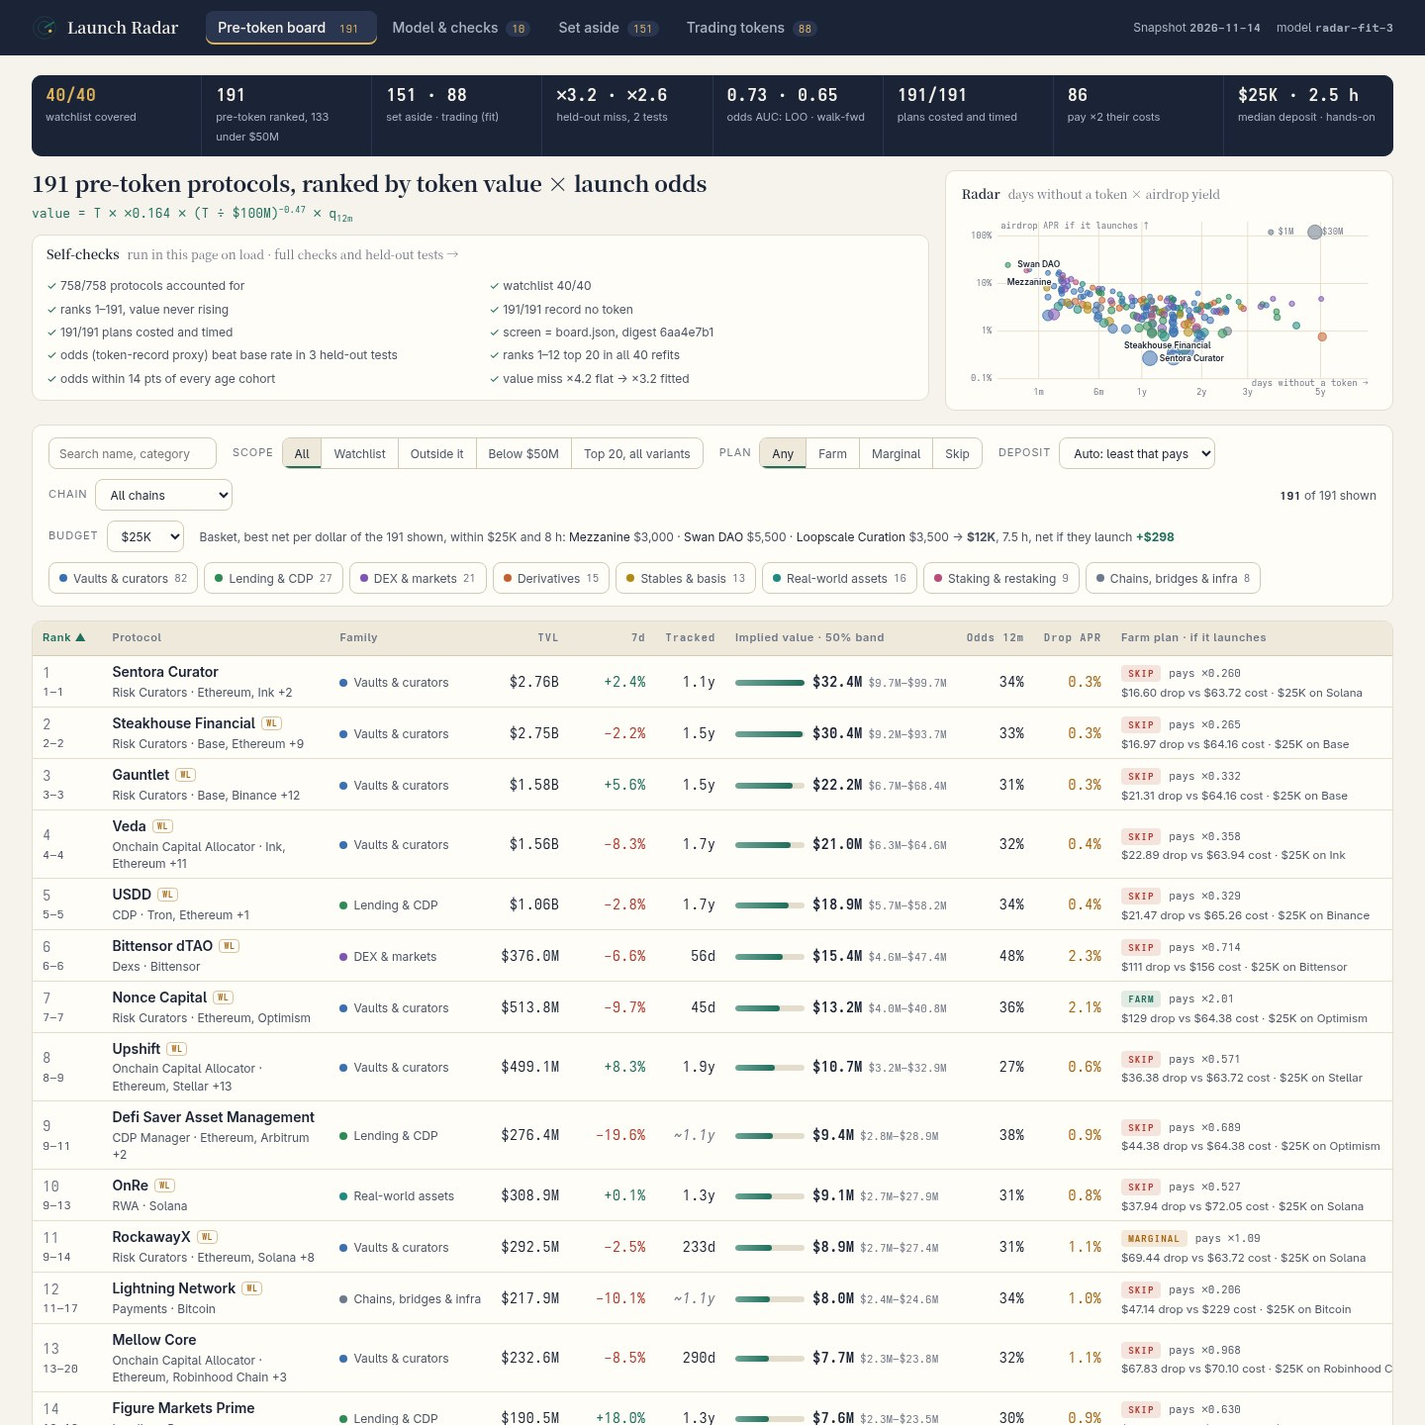
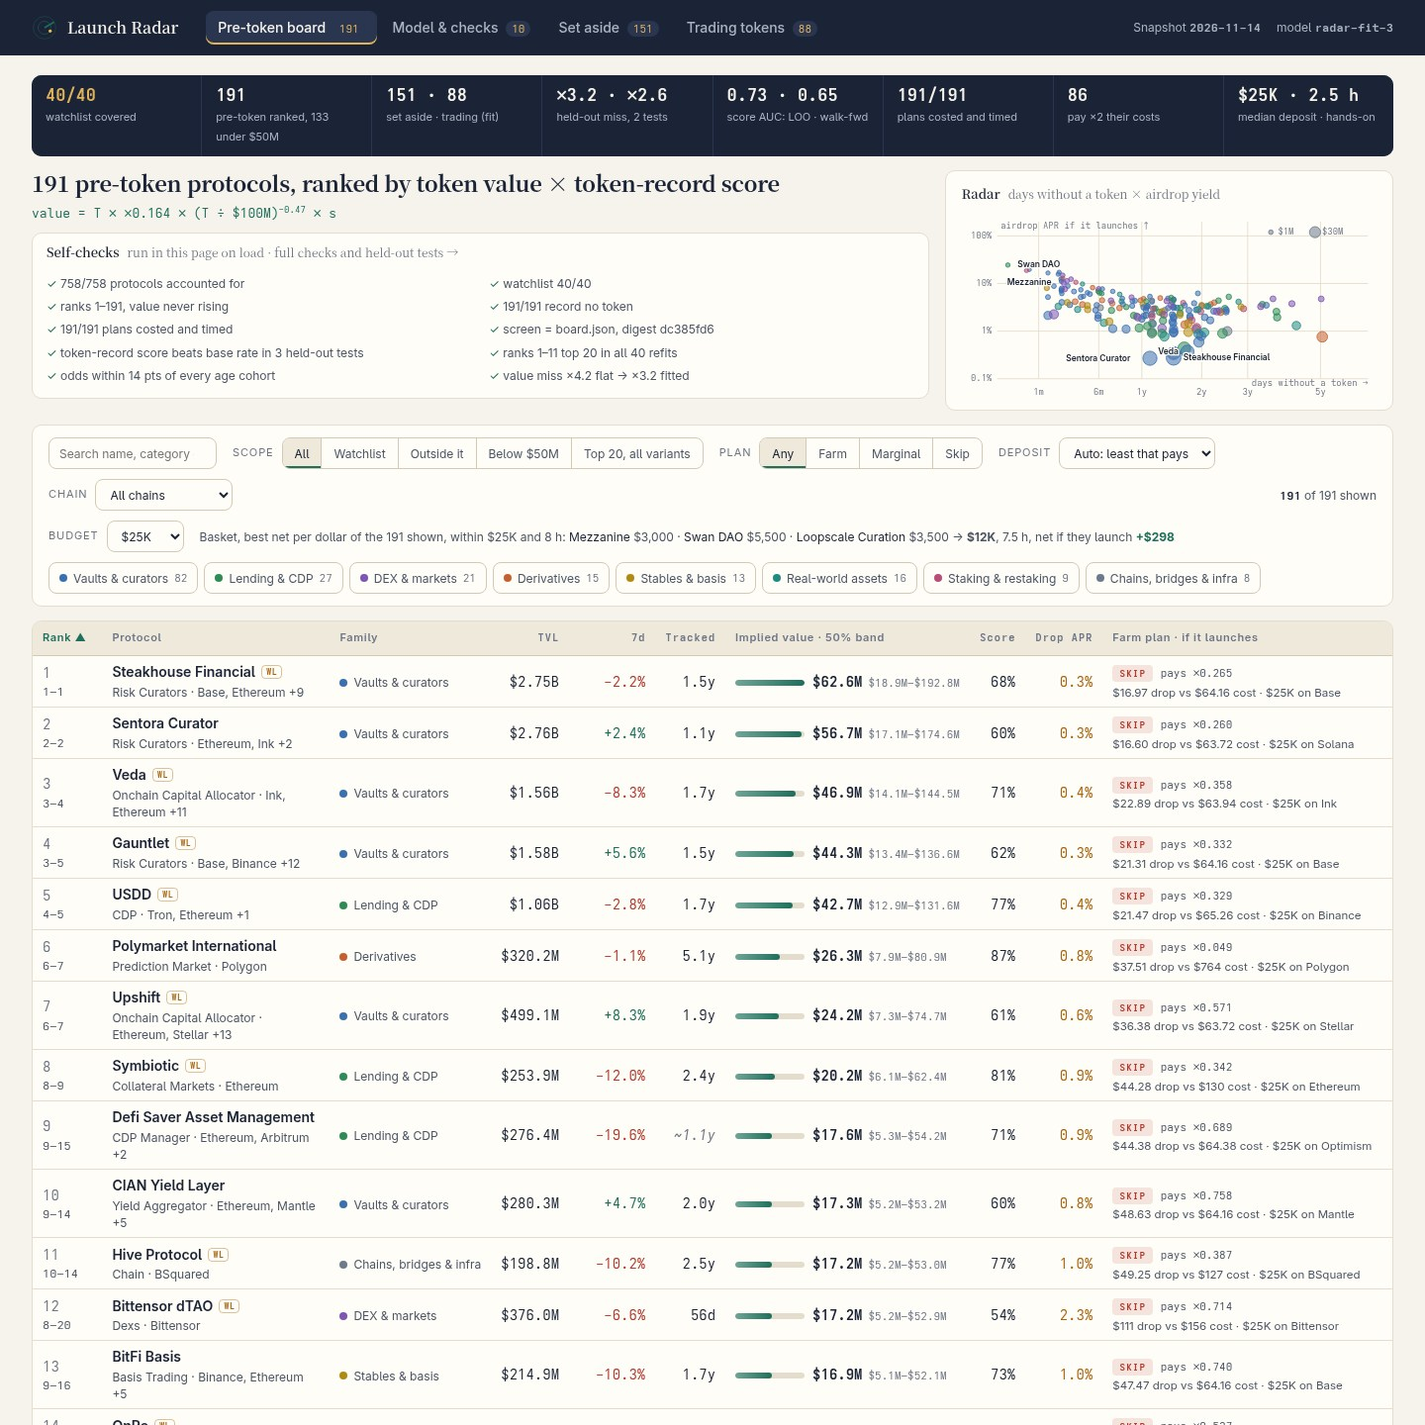
Token-record score replaces the 12-month hazard: implied value = value if launched x share of similar peers that record a token, the quantity the held-out tests score; no timing claim

diff --git a/dashboard/app.js b/dashboard/app.js
@@ -1,7 +1,7 @@
 /* Launch Radar. Guide to this source (dossier order: app.js, index.html, model.js, style.css):
  *   model.js calibrate(), termTests()  value curve fitted on the trading tokens; each term tested held-out twice
- *   model.js launchOdds()  12-month launch odds: a hazard fitted on peers by TVL and age, AUC and cohort checks
- *   model.js value()       value if launched x launch odds, every factor kept for the detail view
+ *   model.js launchOdds()  token-record score: share of similar peers that record a token; AUC, Brier, cohorts
+ *   model.js value()       value if launched x token-record score, every factor kept for the detail view
  *   model.js productOf()   the watchlist rule that sets wrapped, bridged, staked and exchange products aside
  *   model.js farmPlan()    decision step, seven costed and timed steps, deposit sized or set by the reader
  *   model.js build(), boardRows(), digest()  what main.ts writes to board.json; the page recomputes it
@@ -10,8 +10,8 @@
  * main.ts writes it to data.js and the cover's check compares it on load (board screenshot, "screen =").
  * (2) value terms: termTests() scores each term leave-one-out, walk-forward and family-out; the Model tab
  * shows the table. (3) plans: farmPlan() gives every step a dollar cost and a time; a kill test runs
- * before any spend (detail screenshot, step 2). Limit: launch odds are validated on today's token status
- * only; the snapshot holds no launch dates, so no 12-month backtest is possible (stated on the Model tab). */
+ * before any spend (detail screenshot, step 2). Limit: the score is tested on today's token records, the
+ * quantity it ranks by; the snapshot holds no launch dates, so it makes no timing claim (Model tab). */
 (function () {
   'use strict';
   const R = window.RadarModel, S = window.SNAPSHOT, app = document.getElementById('app');
@@ -116,15 +116,15 @@
   const O = fit.odds, pc = (x) => (x * 100).toFixed(0) + '%';
   function formula() {
     const T = fit.tests, x = (v) => '×' + v.toFixed(2);
-    const used = { flat: 'baseline', spot: 'replaced', size: 'fitted', family: fit.k === Infinity ? 'dropped' : 'k=' + fit.k, growth: 'not used', age: 'via odds' };
+    const used = { flat: 'baseline', spot: 'replaced', size: 'fitted', family: fit.k === Infinity ? 'dropped' : 'k=' + fit.k, growth: 'not used', age: 'via score' };
     return `<div class="card model">
       <h2>Value model <span>fitted on this snapshot's ${fit.n} trading tokens</span></h2>
-      <p class="eq">value = T × ${mult(fit.base)} × (T ÷ $100M)<sup>${fit.slope.toFixed(2)}</sup> × q<sub>12m</sub></p>
+      <p class="eq">value = T × ${mult(fit.base)} × (T ÷ $100M)<sup>${fit.slope.toFixed(2)}</sup> × s</p>
       <table class="mini tests"><thead><tr><th>Term · held-out median miss</th><th class="num">Leave-one-out</th><th class="num">Walk-fwd</th><th class="num">Family out</th><th class="num">Use</th></tr></thead><tbody>
       ${T.terms.map((t) => `<tr class="${t.ok ? 'pick' : ''}"><td>${t.label}</td><td class="num">${x(t.loo)}</td><td class="num">${x(t.wf)}</td><td class="num">${x(t.lofo)}</td><td class="num">${used[t.key]}</td></tr>`).join('')}</tbody></table>
-      <p class="note">Walk-forward: fit the ${T.wf_train} listed first, score the ${T.wf_n} since ${T.wf_from}. Family out: each family priced by a fit that never saw it. T = TVL carried a week at its 7-day change (${M.growth_floor}…+${M.growth_cap}%). q<sub>12m</sub> = odds of a token within a year, a hazard fitted on ${O.n} peers (${O.with_token} with a token) by TVL, days listed, 7-day change and family: AUC ${O.auc_loo.toFixed(2)} leave-one-out, ${O.auc_wf.toFixed(2)} walk-forward, ${O.auc_fam.toFixed(2)} family-out (each family scored by a fit that never saw it).</p>
-      <p class="note"><b>Token-record proxy:</b> the fitted target is whether a peer <i>records</i> a token in DefiLlama today (gecko id or symbol), not an observed launch date; q<sub>12m</sub> converts that age curve into a 12-month hazard.</p>
-      <p class="note"><b>Limit:</b> these tests score who holds a token today. The snapshot has no launch dates or earlier copies, so no one can backtest the 12-month odds against later launches from it; q<sub>12m</sub> reads the age curve as a hazard, an inference the cohort check bounds (worst gap ${Math.round(O.gap * 100)} pts).</p>
+      <p class="note">Walk-forward: fit the ${T.wf_train} listed first, score the ${T.wf_n} since ${T.wf_from}. Family out: each family priced by a fit that never saw it. T = TVL carried a week at its 7-day change (${M.growth_floor}…+${M.growth_cap}%). s = token-record score: the share of ${O.n} peers (logistic fit ; ${O.with_token} record a token) with this TVL, days tracked, 7-day change and family that record a token: AUC ${O.auc_loo.toFixed(2)} leave-one-out, ${O.auc_wf.toFixed(2)} walk-forward, ${O.auc_fam.toFixed(2)} family-out (each family scored by a fit that never saw it).</p>
+      <p class="note"><b>Token-record score, not a launch forecast:</b> the target is whether a peer <i>records</i> a token in DefiLlama today. The radar ranks by value if launched × s, the quantity the held-out tests actually score; it makes no claim about when a token launches.</p>
+      <p class="note"><b>Limit:</b> the snapshot has no launch dates or earlier copies, so no one can test timing from it; s is checked against today's records (worst age-cohort gap ${Math.round(O.gap * 100)} pts).</p>
       <p class="note">Leave-one-out miss by TVL band: ${fit.bands.map((b) => `<b>${b.lo ? usd(b.lo) : '$0'}–${b.hi < 1e15 ? usd(b.hi) : '∞'} ×${b.miss.toFixed(1)}</b> (${b.n} tokens; ${rows.filter((r) => r.p.tvl_usd >= b.lo && r.p.tvl_usd < b.hi).length} ranked)`).join(' · ')}.</p></div>`;
   }
 
@@ -139,7 +139,7 @@
     [rows.every((r) => r.p.gecko_id == null && r.p.symbol == null && r.p.mcap_usd == null), `${rows.length}/${rows.length} ranked rows record no token`],
     [bRows.every((b) => b.farm_steps.length >= 3 && b.farm_steps.length <= 12 && b.farm_steps.every((t) => / Cost: .+ Time: /.test(t))), `${bRows.length}/${bRows.length} plans, every step costed and timed`],
     [B.digest === dig && B.rows === rows.length, `Screen = board.json at the Auto deposit (rank, name, value, every plan step): digest ${dig}, ${B.rows || 0} rows`],
-    [O.auc_loo > 0.5 && O.auc_wf > 0.5 && O.auc_fam > 0.5 && O.brier.loo < O.brier.loo_base && O.brier.wf < O.brier.wf_base && O.brier.fam < O.brier.fam_base, `Launch odds (token-record proxy) beat chance and the base rate in 3 held-out tests: AUC ${O.auc_loo.toFixed(2)} leave-one-out, ${O.auc_wf.toFixed(2)} walk-forward, ${O.auc_fam.toFixed(2)} family-out; Brier ${O.brier.loo.toFixed(3)}/${O.brier.wf.toFixed(3)}/${O.brier.fam.toFixed(3)} vs base ${O.brier.loo_base.toFixed(3)}/${O.brier.wf_base.toFixed(3)}/${O.brier.fam_base.toFixed(3)}`],
+    [O.auc_loo > 0.5 && O.auc_wf > 0.5 && O.auc_fam > 0.5 && O.brier.loo < O.brier.loo_base && O.brier.wf < O.brier.wf_base && O.brier.fam < O.brier.fam_base, `Token-record score beats chance and the base rate in 3 held-out tests: AUC ${O.auc_loo.toFixed(2)} leave-one-out, ${O.auc_wf.toFixed(2)} walk-forward, ${O.auc_fam.toFixed(2)} family-out; Brier ${O.brier.loo.toFixed(3)}/${O.brier.wf.toFixed(3)}/${O.brier.fam.toFixed(3)} vs base ${O.brier.loo_base.toFixed(3)}/${O.brier.wf_base.toFixed(3)}/${O.brier.fam_base.toFixed(3)}`],
     [rows.slice(0, 10).every((r) => r.boot >= 0.8), `Bootstrap, 40 refits of curve and odds (fails if any top-10 row leaves the top 20 in over 20% of refits): ranks 1–${rows.findIndex((r) => r.boot < 1)} stay top 20 every time; ${rows.filter((r) => r.boot > 0 && r.boot < 1).length} rows sometimes`],
     ((w) => [O.gap < 0.2, `Odds curve vs ${O.cohorts.length} listing-age cohorts: within ${Math.round(O.gap * 100)} pts (worst from day ${w.from}: ${pc(w.actual)} hold a token, ${pc(w.fitted)} fitted)`])(O.cohorts.reduce((a, c) => Math.abs(c.actual - c.fitted) > Math.abs(a.actual - a.fitted) ? c : a)),
     [spotT.ok && sizeT.ok, `Size curve beats a flat multiple, and carrying TVL a week at its 7-day change beats spot TVL, in all three held-out tests: ×${flatT.loo.toFixed(2)}→×${spotT.loo.toFixed(2)}→×${sizeT.loo.toFixed(2)} leave-one-out`]
@@ -147,7 +147,7 @@
   // The cover shows each check as a short line; the Model tab shows them in full.
   const SHORT = [`${nAll}/${S.protocols.length} protocols accounted for`, `watchlist ${S.watchlist.filter((s) => bySlug[s]).length}/${S.watchlist.length}`, `ranks 1–${rows.length}, value never rising`,
     `${rows.length}/${rows.length} record no token`, `${bRows.length}/${bRows.length} plans costed and timed`, `screen = board.json, digest ${dig}`,
-    `odds (token-record proxy) beat base rate in 3 held-out tests`, `ranks 1–${rows.findIndex((r) => r.boot < 1)} top 20 in all 40 refits`,
+    `token-record score beats base rate in 3 held-out tests`, `ranks 1–${rows.findIndex((r) => r.boot < 1)} top 20 in all 40 refits`,
     `odds within ${Math.round(O.gap * 100)} pts of every age cohort`, `value miss ×${flatT.loo.toFixed(1)} flat → ×${sizeT.loo.toFixed(1)} fitted`];
 
   function board(st) {
@@ -202,22 +202,22 @@
       <div><b>${rows.length}</b><span>pre-token ranked, ${rows.filter((r) => r.below).length} under $50M</span></div>
       <div><b>${radar.products.length} · ${fit.n}</b><span>set aside · trading (fit)</span></div>
       <div><b>×${sizeT.loo.toFixed(1)} · ×${sizeT.wf.toFixed(1)}</b><span>held-out miss, 2 tests</span></div>
-      <div><b>${O.auc_loo.toFixed(2)} · ${O.auc_wf.toFixed(2)}</b><span>odds AUC: LOO · walk-fwd</span></div>
+      <div><b>${O.auc_loo.toFixed(2)} · ${O.auc_wf.toFixed(2)}</b><span>score AUC: LOO · walk-fwd</span></div>
       <div><b>${bRows.length}/${rows.length}</b><span>plans costed and timed</span></div>
       <div><b>${farmN}</b><span>pay ×${M.target_cover} their costs</span></div>
       <div><b>${usd(mid((r) => r.plan.stake))} · ${R.mins(mid((r) => r.plan.minutes))}</b><span>median deposit · hands-on</span></div>
     </section>
     <section class="hero slim">
       <div class="lead">
-        <h1>${rows.length} pre-token protocols, ranked by token value × launch odds</h1>
-        ${active ? `<p class="note">${CHECKS.filter((c) => c[0]).length}/${CHECKS.length} self-checks pass; the value model and its held-out tests are on the <a href="${link({ q: '', fam: '', chain: '', scope: 'all', verdict: '', dep: '' })}">unfiltered board</a>. With filters on, the board leads with the shortlist.</p>${ctl}` : `<p class="eq">value = T × ${mult(fit.base)} × (T ÷ $100M)<sup>${fit.slope.toFixed(2)}</sup> × q<sub>12m</sub></p>
+        <h1>${rows.length} pre-token protocols, ranked by token value × token-record score</h1>
+        ${active ? `<p class="note">${CHECKS.filter((c) => c[0]).length}/${CHECKS.length} self-checks pass; the value model and its held-out tests are on the <a href="${link({ q: '', fam: '', chain: '', scope: 'all', verdict: '', dep: '' })}">unfiltered board</a>. With filters on, the board leads with the shortlist.</p>${ctl}` : `<p class="eq">value = T × ${mult(fit.base)} × (T ÷ $100M)<sup>${fit.slope.toFixed(2)}</sup> × s</p>
         <div class="card checks"><h2>Self-checks <span>run in this page on load · <a href="${link({ view: 'model' })}">full checks and held-out tests →</a></span></h2><ul class="grid2">${CHECKS.map(([ok], i) => `<li class="${ok ? 'ok' : 'bad'}">${ok ? '✓' : '✗'} ${SHORT[i]}</li>`).join('')}</ul></div>`}
       </div>
       <div class="card chartcard"><h2>Radar <span>days without a token × airdrop yield</span></h2>${chart(shown, 214)}</div>
     </section>
     ${active ? '' : ctl}
     <div class="tablewrap"><table class="board">
-      <thead><tr>${th('rank', 'Rank')}${th('name', 'Protocol')}<th>Family</th>${th('tvl', 'TVL', 'num')}${th('g', '7d', 'num')}${th('age', 'Tracked', 'num')}${th('value', 'Implied value · 50% band', 'val')}${th('odds', 'Odds 12m', 'num')}${th('apr', 'Drop APR', 'num')}${th('plan', 'Farm plan · if it launches', 'plan')}</tr></thead>
+      <thead><tr>${th('rank', 'Rank')}${th('name', 'Protocol')}<th>Family</th>${th('tvl', 'TVL', 'num')}${th('g', '7d', 'num')}${th('age', 'Tracked', 'num')}${th('value', 'Implied value · 50% band', 'val')}${th('odds', 'Score', 'num')}${th('apr', 'Drop APR', 'num')}${th('plan', 'Farm plan · if it launches', 'plan')}</tr></thead>
       <tbody>${body || '<tr><td colspan="10" class="empty">No protocol matches these filters.</td></tr>'}</tbody></table></div>`;
   }
 
@@ -226,7 +226,7 @@
     const v = r.v, b = fit.bands.find((x) => r.p.tvl_usd >= x.lo && r.p.tvl_usd < x.hi), alt = Object.entries(r.alt).sort((a, c) => Math.abs(c[1] - r.rank) - Math.abs(a[1] - r.rank))[0];
     return [
       `<b>Value:</b> trading tokens of this size (${b.lo ? usd(b.lo) : '$0'}–${b.hi < 1e15 ? usd(b.hi) : '∞'} TVL) miss their real market cap by a median ×${b.miss.toFixed(1)} held out; a market cap at launch of ${usd(v.fitted * fit.band_low)} or ${usd(v.cap_high)} would not be unusual.`,
-      `<b>Odds:</b> ${pc(v.time_factor)} reads today's token status as a launch rate; no launch dates exist to test it, and the age curve misses one cohort by ${Math.round(fit.odds.gap * 100)} pts.`,
+      `<b>Score:</b> ${pc(v.time_factor)} of similar peers record a token today; that is no forecast of when, or whether, this one launches, and the fit misses one age cohort by ${Math.round(fit.odds.gap * 100)} pts.`,
       `<b>Rank:</b> #${r.rank} now, ${r.rlo}–${r.rhi} across 40 refits, #${alt[1]} ${alt[0]}${v.growth_imputed ? '; its 7-day change is unreported, so 0% was used' : ''}.`,
       `<b>Plan:</b> pays ×${M.target_cover} only if ≥${(r.plan.need_share * 100).toFixed(1)}% of the token reaches depositors (assumed ${M.drop_share * 100}%), and only if a token launches at all.`
     ];
@@ -257,7 +257,7 @@
             ${line('Peer multiple at $100M', (fit.k === Infinity ? 'one curve: per-family multiples did not beat it in all three held-out tests' : 'family pull k=' + fit.k) + ' (' + esc(fam.label) + ' alone ' + mult(fam.raw) + ')', mult(v.fam_multiple))}
             ${line('Size curve', '(TVL ÷ $100M)<sup>' + fit.slope.toFixed(2) + '</sup>, slope fitted on the ' + fit.n + ' tokens', mult(v.size_mult))}
             ${line('Value if launched', 'what a trading peer of this size is worth', usd(v.fitted), 'sum')}
-            ${line('Launch odds, next 12 months (token-record proxy)', (v.age == null ? 'no listing date: median ' + v.age_used + ' days' : v.age + ' days') + ' with no token; similar peers holding one: ' + pc(v.f0) + ' now, ' + pc(v.f1) + ' a year older', pc(v.time_factor))}
+            ${line('Token-record score s', 'share of peers with this TVL, ' + (v.age == null ? 'median ' + v.age_used : v.age) + ' days tracked, 7-day change and family that record a token', pc(v.time_factor))}
             ${line('Implied value', 'rank ' + r.rank + ' of ' + rows.length + ' on this number', usd(v.implied), 'total')}
           </table>
           <div class="scale">
@@ -316,7 +316,7 @@
     // A deposit chosen by the reader re-plans every row at that amount (farmPlan's dep).
     if (st.dep !== planDep) { planDep = st.dep; rows.forEach((r) => { r.plan = R.farmPlan(r.p, r.v, +st.dep); }); }
     app.innerHTML = st.p ? detail(st) : st.view === 'model' ? model() : st.view === 'aside' ? aside() : st.view === 'trading' ? trading() : board(st);
-    document.getElementById('foot').innerHTML = `Source: ${esc(S.source)}. Floor $${(S.floor_usd / 1e6).toFixed(0)}M. Implied value = the radar's own value if launched × its 12-month launch odds; never make.fun's claim. A protocol may hold a token DefiLlama does not record.`;
+    document.getElementById('foot').innerHTML = `Source: ${esc(S.source)}. Floor $${(S.floor_usd / 1e6).toFixed(0)}M. Implied value = the radar's own value if launched × its token-record score; never make.fun's claim. A protocol may hold a token DefiLlama does not record.`;
     if (st.p) window.scrollTo(0, 0);
     if (typing) { clearTimeout(typing); typing = null; }
   }

diff --git a/dashboard/model.js b/dashboard/model.js
@@ -154,7 +154,7 @@
     var lofo = pts.map(function (q) { var f = family(q.p); return { y: q.y, s: dot(logit(pts.filter(function (o) { return family(o.p) !== f; }), w, 4), q.x) }; });
     brier.fam = bri(lofo, function (q) { return sig(q.s); });
     brier.fam_base = bri(pts, function (q) { var o = pts.filter(function (z) { return family(z.p) !== family(q.p); }); return o.reduce(function (t, z) { return t + z.y; }, 0) / o.length; });
-    return { auc_fam: auc(lofo), boot: boot, brier: brier, w: w, cohorts: cohorts, gap: Math.max.apply(null, cohorts.map(function (c) { return Math.abs(c.actual - c.fitted); })), n: pts.length, with_token: pts.filter(function (q) { return q.y; }).length, auc_loo: auc(loo), auc_wf: auc(wf), wf_n: wf.length,
+    return { mid: mid, auc_fam: auc(lofo), boot: boot, brier: brier, w: w, cohorts: cohorts, gap: Math.max.apply(null, cohorts.map(function (c) { return Math.abs(c.actual - c.fitted); })), n: pts.length, with_token: pts.filter(function (q) { return q.y; }).length, auc_loo: auc(loo), auc_wf: auc(wf), wf_n: wf.length,
       F: F };
   }
   function sig(z) { return 1 / (1 + Math.exp(-z)); }
@@ -251,8 +251,9 @@
     var sizeMult = Math.pow(tvlNext / M.ref_tvl, fit.slope);
     var fitted = tvlNext * fam.multiple * sizeMult;
     var age = ageDays(asOf, p.listed_at), ageUsed = age == null ? ageFallback : age;
-    var o = fit.odds, f0 = o.F(p, ageUsed), f1 = o.F(p, ageUsed + M.odds_days), timeF = (f1 - f0) / (1 - f0);
-    var q3 = (o.F(p, ageUsed + M.ev_days) - f0) / (1 - f0);
+    // Token-record score: the share of peers with this TVL, age, 7-day change and family that record a token
+    // today. It is the fitted, held-out-tested quantity itself; no conversion into a future launch rate.
+    var o = fit.odds, f0 = o.F(p, ageUsed), f1 = f0, timeF = f0, q3 = f0;
     var implied = Math.max(1, Math.round(fitted * timeF));
 
     // Airdrop yield if it launches: drop_share of the value if launched, split over every dollar-day of
@@ -313,7 +314,7 @@
     var verdict = drop >= M.target_cover * t.all ? 'farm' : drop >= t.all ? 'marginal' : 'skip';
     // Every plan opens with its decision: the numbers, and the drop share at which it pays target_cover.
     var needShare = M.drop_share * M.target_cover * t.all / Math.max(drop, 1e-9);
-    st.unshift({ when: 'Before you start', usd: 0, min: 5, act: 'Decide: launch odds are ' + Math.round(v.time_factor * 100) + '% within a year and ' + Math.round(v.q3 * 100) + '% within 3, so the odds-weighted drop is ' + usd(drop * v.q3) + ' (×' + (drop * v.q3 / t.all).toFixed(2) + ' the costs); if it launches, at ' + usd(capital) + ' the modeled drop of ' + usd(drop) + ' covers the plan\'s ' + usd(t.all) +
+    st.unshift({ when: 'Before you start', usd: 0, min: 5, act: 'Decide: ' + Math.round(v.time_factor * 100) + '% of peers like it record a token, so the score-weighted drop is ' + usd(drop * v.q3) + ' (×' + (drop * v.q3 / t.all).toFixed(2) + ' the costs); if it launches, at ' + usd(capital) + ' the modeled drop of ' + usd(drop) + ' covers the plan\'s ' + usd(t.all) +
       ' of gas, fees and time (5 min of it this check) ×' + (drop / t.all).toFixed(2) + '; with no reward it loses ' + usd(t.all) + '; it pays ×' + M.target_cover + ' if at least ' + (needShare * 100).toFixed(1) +
       '% of the token goes to depositors (the model assumes ' + M.drop_share * 100 + '%; at 5% it pays ×' + (drop / t.all / 2).toFixed(2) + ', at 20% ×' + (drop / t.all * 2).toFixed(2) + '), so ' + (verdict === 'farm' ? 'farm it, and re-check if the team announces a smaller user allocation' : verdict === 'skip' ? 'skip it unless the team announces a larger user allocation' : 'farm it only with funds already on ' + chain) });
     // A plan that does not cover its costs even once gets a $0 research plan instead of spending steps:
@@ -353,8 +354,8 @@
     rows.forEach(function (r, i) { r.rank = i + 1; });
     // Rank crossing: each row's rank under three declared alternatives, and whether it stays top 20 in all.
     var F0 = function (r, a) { return fit.odds.F(Object.assign({}, r.p, { change_7d: 0 }), a); };
-    var ALT = { 'without momentum': function (r) { var a = r.v.age_used, f0 = F0(r, a); return r.v.fitted * Math.pow(r.p.tvl_usd / r.v.tvl_next, 1 + fit.slope) * (F0(r, a + M.odds_days) - f0) / (1 - f0); },
-      'at 2-year odds': function (r) { return r.v.fitted * (fit.odds.F(r.p, r.v.age_used + 730) - r.v.f0) / (1 - r.v.f0); },
+    var ALT = { 'without momentum': function (r) { var a = r.v.age_used, f0 = F0(r, a); return r.v.fitted * Math.pow(r.p.tvl_usd / r.v.tvl_next, 1 + fit.slope) * f0; },
+      'score without age': function (r) { return r.v.fitted * fit.odds.F(r.p, fit.odds.mid); },
       'if launched': function (r) { return r.v.fitted; } };
     Object.keys(ALT).forEach(function (k) { rows.slice().sort(function (a, b) { return ALT[k](b) - ALT[k](a) || bySlug(a.p, b.p); }).forEach(function (r, i) { (r.alt = r.alt || {})[k] = i + 1; }); });
     // Bootstrap: refit the value curve on resampled trading tokens and the launch odds on resampled peers,
@@ -364,7 +365,7 @@
     for (var d = 0; d < 40; d++) {
       var bs = fit.points.map(function () { return fit.points[Math.floor(rnd() * fit.points.length)]; }), bf = fitPoints(bs, fit.k), Fb = fit.odds.boot(rnd);
       rows.map(function (r) {
-        var a = r.v.age_used, f0 = Fb(r.p, a), qb = (Fb(r.p, a + M.odds_days) - f0) / (1 - f0);
+        var qb = Fb(r.p, r.v.age_used);
         return { r: r, s: r.v.tvl_next * Math.exp(bf.fams[r.v.family].ln + bf.b * Math.log(r.v.tvl_next / M.ref_tvl)) * qb };
       })
         .sort(function (a, b) { return b.s - a.s || bySlug(a.r.p, b.r.p); }).forEach(function (o, i) { o.r.draws.push(i + 1); if (i < 20) o.r.boot += 1 / 40; });
